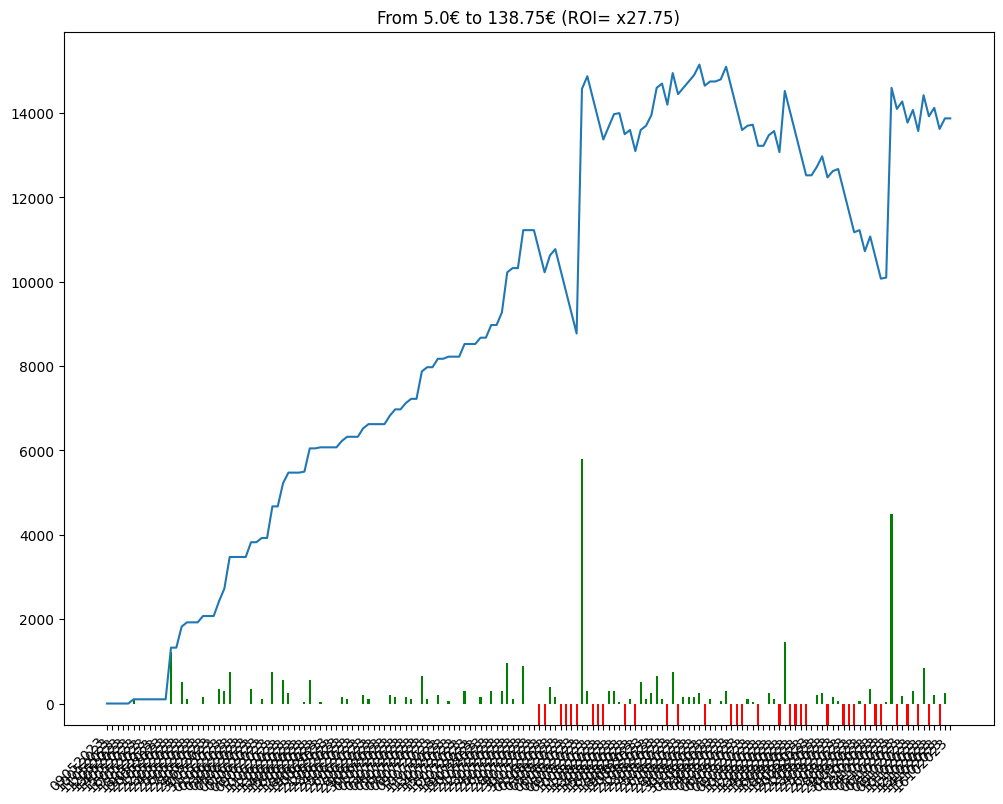
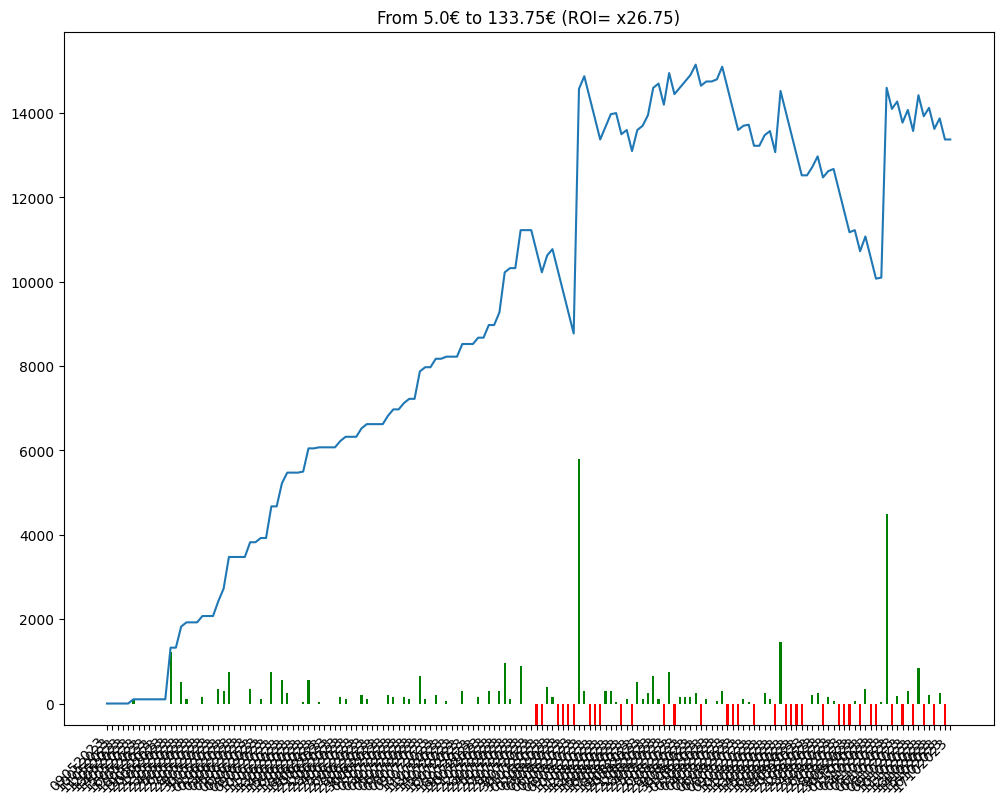
comment from python script

diff --git a/bethistory.html b/bethistory.html
@@ -86,7 +86,8 @@
             En observant la courbe 🤔, on peut avoir une idée visuelle de l'évolution des gains et ainsi évaluer le model utilisé 🧑🏫.
         </p>
         
-        <img src = "/candle.png" alt="candle chart"/><table><tr><td>Chevaux joués</td><td>Gains</td><td>URL Circuits</td></tr><tr><td>3 - RUMPLETEAZER</td><td>0</td><td><a href=https://www.pmu.fr/turf/16102023/r1/c2 target="_blank">https://www.pmu.fr/turf/16102023/r1/c2</a></td></tr>
+        <img src = "/candle.png" alt="candle chart"/><table><tr><td>Chevaux joués</td><td>Gains</td><td>URL Circuits</td></tr><tr><td>1 - GRAND KISS</td><td>0</td><td><a href=https://www.pmu.fr/turf/17102023/r3/c1 target="_blank">https://www.pmu.fr/turf/17102023/r3/c1</a></td></tr>
+<tr><td>3 - RUMPLETEAZER</td><td>-500</td><td><a href=https://www.pmu.fr/turf/16102023/r1/c2 target="_blank">https://www.pmu.fr/turf/16102023/r1/c2</a></td></tr>
 <tr><td>8 - CORNELIENNE</td><td>+250</td><td><a href=https://www.pmu.fr/turf/15102023/r1/c1 target="_blank">https://www.pmu.fr/turf/15102023/r1/c1</a></td></tr>
 <tr><td>7 - GORMLAITH</td><td>-500</td><td><a href=https://www.pmu.fr/turf/14102023/r2/c5 target="_blank">https://www.pmu.fr/turf/14102023/r2/c5</a></td></tr>
 <tr><td>3 - TERREDEGUERRE</td><td>+200</td><td><a href=https://www.pmu.fr/turf/13102023/r4/c3 target="_blank">https://www.pmu.fr/turf/13102023/r4/c3</a></td></tr>
